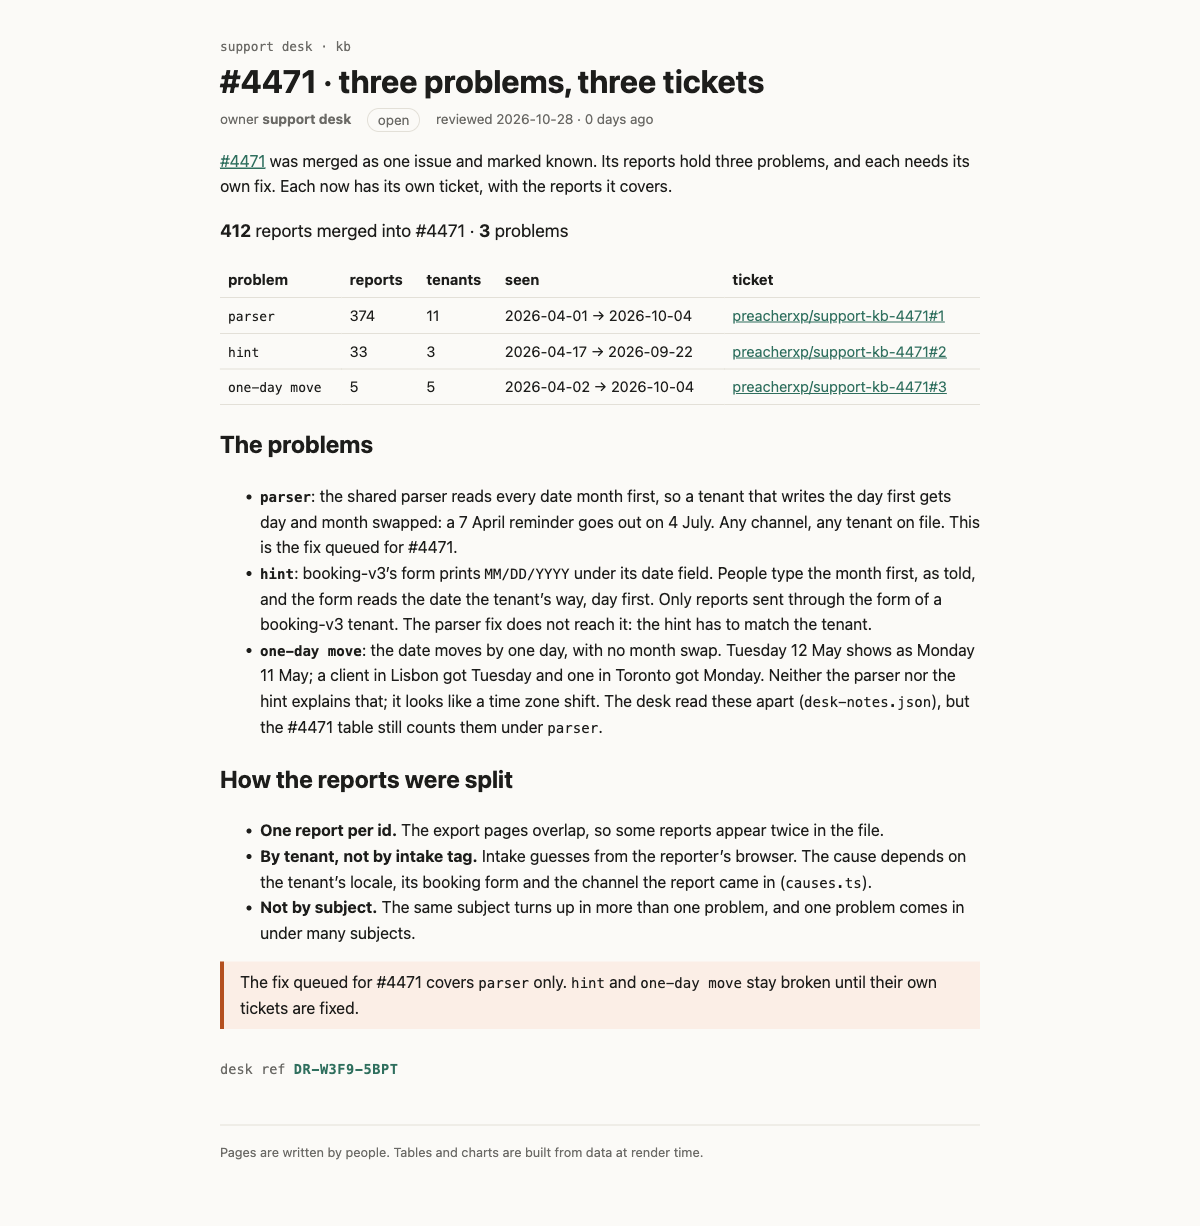
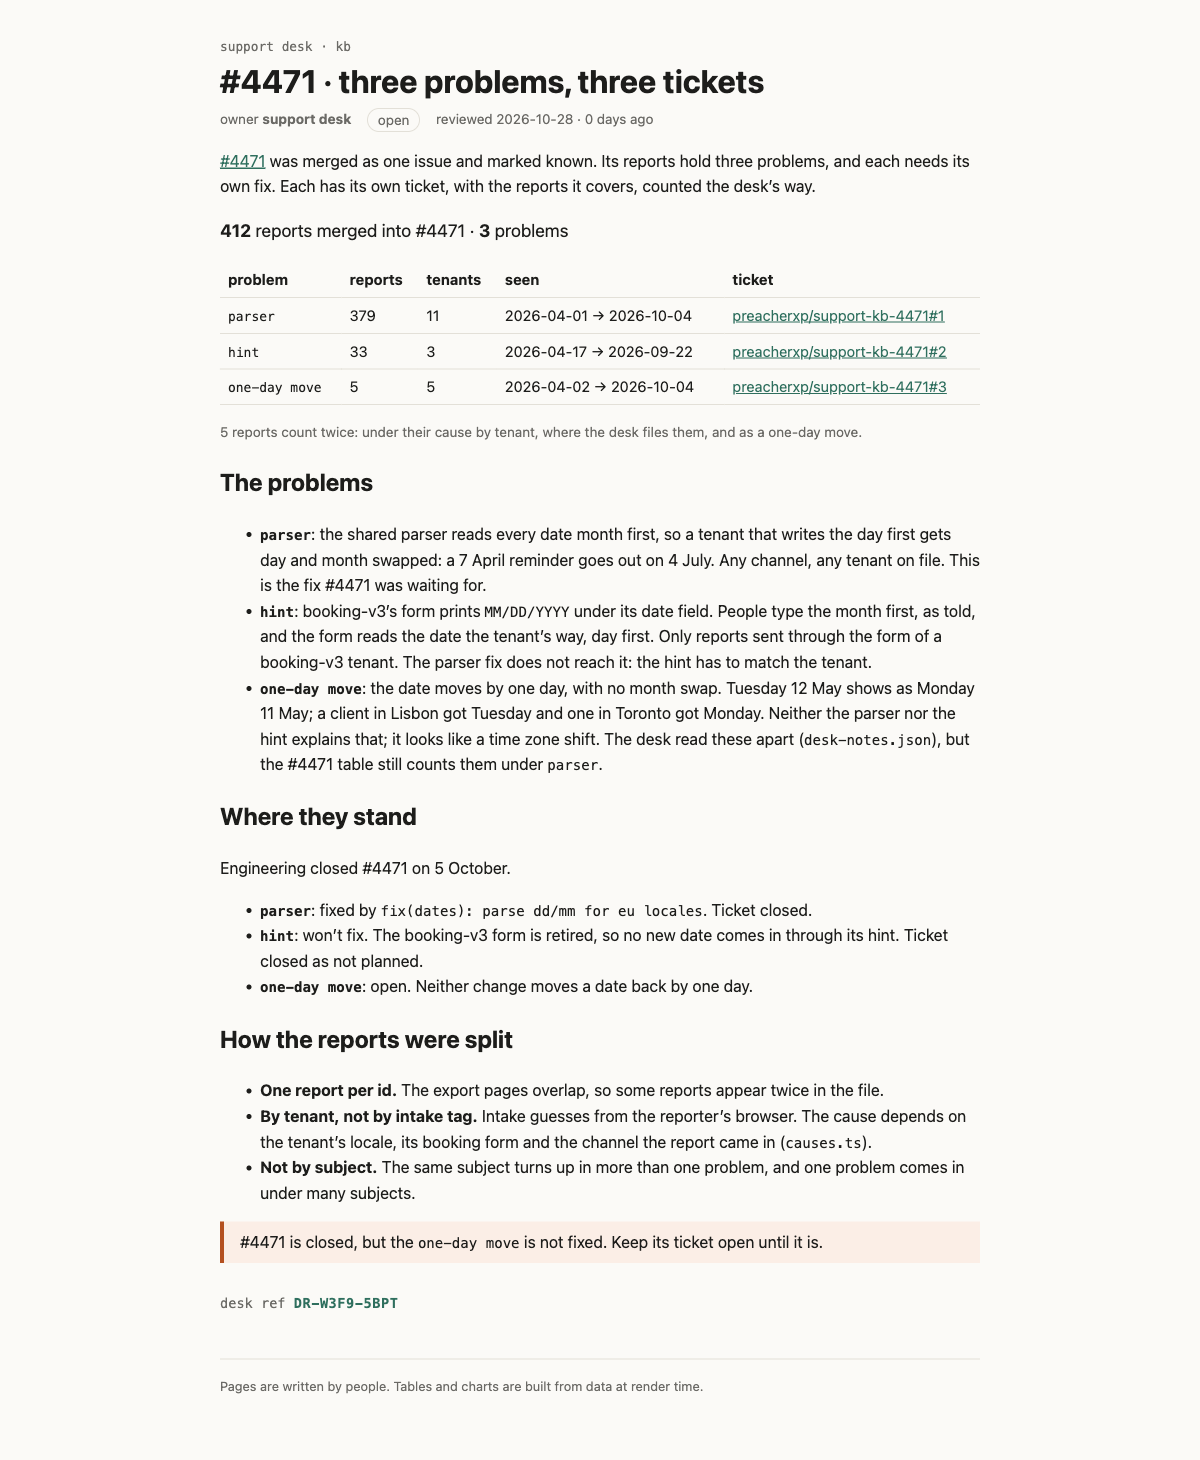
kb: #4471 problems page counts the desk's way, adds where each ticket stands

Changed region(s): [[0.185, 0.031, 0.8325, 0.8989], [0.185, 0.9299, 0.5858, 0.9608]]

diff --git a/rendered/problems.html b/rendered/problems.html
@@ -31,10 +31,11 @@
  .svelte-e2jw2j{}
[1 lines of base64/hex data omitted]
   .sum.svelte-1op6c6 { font-size: 1.1rem; }
+  .note.svelte-1op6c6 { color: var(--muted); font-size: 0.85em; }
   .open.svelte-1op6c6 td:where(.svelte-1op6c6) { background: var(--warn-bg); }
   .open.svelte-1op6c6 td:where(.svelte-1op6c6):last-child { color: var(--warn); font-weight: 600; }
  .svelte-1op6c6{}
[2 lines of base64/hex data omitted]
   aside.svelte-17bri61 { border-left: 4px solid var(--accent); padding: 0.5rem 1rem; margin: 1rem 0; background: var(--note-bg); }
   aside.warn.svelte-17bri61 { border-color: var(--warn); background: var(--warn-bg); }
  .svelte-17bri61{}
@@ -47,16 +48,18 @@
 </head>
 <body>
 <!--[--><div class="kb svelte-e2jw2j"><header class="svelte-e2jw2j"><a class="crumb svelte-e2jw2j" href="/kb">support desk · kb</a> <h1 class="svelte-e2jw2j">#4471 · three problems, three tickets</h1> <p class="meta svelte-e2jw2j"><span class="svelte-e2jw2j">owner <b class="svelte-e2jw2j">support desk</b></span> <span class="status open svelte-e2jw2j">open</span> <span class="svelte-e2jw2j">reviewed 2026-10-28 · 0 days ago</span></p></header> <!--[-1--><!--]--> <main class="svelte-e2jw2j"><p><a href="/kb/incidents/4471">#4471</a> was merged as one issue and marked known. Its reports hold three
-problems, and each needs its own fix. Each now has its own ticket, with the reports it covers.</p> <p class="sum svelte-1op6c6"><strong class="svelte-1op6c6">412</strong> reports merged into #4471 · <strong class="svelte-1op6c6">3</strong> problems</p> <table class="svelte-1op6c6"><thead class="svelte-1op6c6"><tr class="svelte-1op6c6"><th class="svelte-1op6c6">problem</th><th class="svelte-1op6c6">reports</th><th class="svelte-1op6c6">tenants</th><th class="svelte-1op6c6">seen</th><th class="svelte-1op6c6">ticket</th></tr></thead><tbody class="svelte-1op6c6"><!--[--><tr class="svelte-1op6c6"><td class="svelte-1op6c6"><code class="svelte-1op6c6">parser</code></td><td class="svelte-1op6c6">374</td><td class="svelte-1op6c6">11</td><td class="svelte-1op6c6">2026-04-01 → 2026-10-04</td><td class="svelte-1op6c6"><!--[0--><a href="https://github.com/preacherxp/support-kb-4471/issues/1" class="svelte-1op6c6">preacherxp/support-kb-4471#1</a><!--]--></td></tr><tr class="svelte-1op6c6"><td class="svelte-1op6c6"><code class="svelte-1op6c6">hint</code></td><td class="svelte-1op6c6">33</td><td class="svelte-1op6c6">3</td><td class="svelte-1op6c6">2026-04-17 → 2026-09-22</td><td class="svelte-1op6c6"><!--[0--><a href="https://github.com/preacherxp/support-kb-4471/issues/2" class="svelte-1op6c6">preacherxp/support-kb-4471#2</a><!--]--></td></tr><tr class="svelte-1op6c6"><td class="svelte-1op6c6"><code class="svelte-1op6c6">one-day move</code></td><td class="svelte-1op6c6">5</td><td class="svelte-1op6c6">5</td><td class="svelte-1op6c6">2026-04-02 → 2026-10-04</td><td class="svelte-1op6c6"><!--[0--><a href="https://github.com/preacherxp/support-kb-4471/issues/3" class="svelte-1op6c6">preacherxp/support-kb-4471#3</a><!--]--></td></tr><!--]--></tbody></table><!----> <h2>The problems</h2> <ul><li><strong><code>parser</code></strong>: the shared parser reads every date month first, so a tenant that writes the day
+problems, and each needs its own fix. Each has its own ticket, with the reports it covers, counted
+the desk’s way.</p> <p class="sum svelte-1op6c6"><strong class="svelte-1op6c6">412</strong> reports merged into #4471 · <strong class="svelte-1op6c6">3</strong> problems</p> <table class="svelte-1op6c6"><thead class="svelte-1op6c6"><tr class="svelte-1op6c6"><th class="svelte-1op6c6">problem</th><th class="svelte-1op6c6">reports</th><th class="svelte-1op6c6">tenants</th><th class="svelte-1op6c6">seen</th><th class="svelte-1op6c6">ticket</th></tr></thead><tbody class="svelte-1op6c6"><!--[--><tr class="svelte-1op6c6"><td class="svelte-1op6c6"><code class="svelte-1op6c6">parser</code></td><td class="svelte-1op6c6">379</td><td class="svelte-1op6c6">11</td><td class="svelte-1op6c6">2026-04-01 → 2026-10-04</td><td class="svelte-1op6c6"><!--[0--><a href="https://github.com/preacherxp/support-kb-4471/issues/1" class="svelte-1op6c6">preacherxp/support-kb-4471#1</a><!--]--></td></tr><tr class="svelte-1op6c6"><td class="svelte-1op6c6"><code class="svelte-1op6c6">hint</code></td><td class="svelte-1op6c6">33</td><td class="svelte-1op6c6">3</td><td class="svelte-1op6c6">2026-04-17 → 2026-09-22</td><td class="svelte-1op6c6"><!--[0--><a href="https://github.com/preacherxp/support-kb-4471/issues/2" class="svelte-1op6c6">preacherxp/support-kb-4471#2</a><!--]--></td></tr><tr class="svelte-1op6c6"><td class="svelte-1op6c6"><code class="svelte-1op6c6">one-day move</code></td><td class="svelte-1op6c6">5</td><td class="svelte-1op6c6">5</td><td class="svelte-1op6c6">2026-04-02 → 2026-10-04</td><td class="svelte-1op6c6"><!--[0--><a href="https://github.com/preacherxp/support-kb-4471/issues/3" class="svelte-1op6c6">preacherxp/support-kb-4471#3</a><!--]--></td></tr><!--]--></tbody></table> <!--[0--><p class="note svelte-1op6c6">5 reports count twice: under their cause by tenant, where the desk files them, and as a one-day move.</p><!--]--><!----> <h2>The problems</h2> <ul><li><strong><code>parser</code></strong>: the shared parser reads every date month first, so a tenant that writes the day
 first gets day and month swapped: a 7 April reminder goes out on 4 July. Any channel, any
-tenant on file. This is the fix queued for #4471.</li> <li><strong><code>hint</code></strong>: booking-v3’s form prints <code>MM/DD/YYYY</code> under its date field. People type the month
+tenant on file. This is the fix #4471 was waiting for.</li> <li><strong><code>hint</code></strong>: booking-v3’s form prints <code>MM/DD/YYYY</code> under its date field. People type the month
 first, as told, and the form reads the date the tenant’s way, day first. Only reports sent
 through the form of a booking-v3 tenant. The parser fix does not reach it: the hint has to match
 the tenant.</li> <li><strong><code>one-day move</code></strong>: the date moves by one day, with no month swap. Tuesday 12 May shows as
 Monday 11 May; a client in Lisbon got Tuesday and one in Toronto got Monday. Neither the parser
 nor the hint explains that; it looks like a time zone shift. The desk read these apart
-(<code>desk-notes.json</code>), but the #4471 table still counts them under <code>parser</code>.</li></ul> <h2>How the reports were split</h2> <ul><li><strong>One report per id.</strong> The export pages overlap, so some reports appear twice in the file.</li> <li><strong>By tenant, not by intake tag.</strong> Intake guesses from the reporter’s browser. The cause depends
+(<code>desk-notes.json</code>), but the #4471 table still counts them under <code>parser</code>.</li></ul> <h2>Where they stand</h2> <p>Engineering closed #4471 on 5 October.</p> <ul><li><strong><code>parser</code></strong>: fixed by <code>fix(dates): parse dd/mm for eu locales</code>. Ticket closed.</li> <li><strong><code>hint</code></strong>: won’t fix. The booking-v3 form is retired, so no new date comes in through its hint.
+Ticket closed as not planned.</li> <li><strong><code>one-day move</code></strong>: open. Neither change moves a date back by one day.</li></ul> <h2>How the reports were split</h2> <ul><li><strong>One report per id.</strong> The export pages overlap, so some reports appear twice in the file.</li> <li><strong>By tenant, not by intake tag.</strong> Intake guesses from the reporter’s browser. The cause depends
 on the tenant’s locale, its booking form and the channel the report came in (<code>causes.ts</code>).</li> <li><strong>Not by subject.</strong> The same subject turns up in more than one problem, and one problem comes in
-under many subjects.</li></ul> <aside class="warn svelte-17bri61"><!---->The fix queued for #4471 covers <code>parser</code> only. <code>hint</code> and <code>one-day move</code> stay broken until their own tickets are fixed.<!----></aside><!----> <!--[0--><p class="stamp svelte-1280m42">desk ref <b class="svelte-1280m42">DR-W3F9-5BPT</b></p><!--]--><!----><!----></main> <footer class="svelte-e2jw2j">Pages are written by people. Tables and charts are built from data at render time.</footer></div><!----><!--]-->
+under many subjects.</li></ul> <aside class="warn svelte-17bri61"><!---->#4471 is closed, but the <code>one-day move</code> is not fixed. Keep its ticket open until it is.<!----></aside><!----> <!--[0--><p class="stamp svelte-1280m42">desk ref <b class="svelte-1280m42">DR-W3F9-5BPT</b></p><!--]--><!----><!----></main> <footer class="svelte-e2jw2j">Pages are written by people. Tables and charts are built from data at render time.</footer></div><!----><!--]-->
 </body>
 </html>

diff --git a/src/lib/kb/ProblemTable.svelte b/src/lib/kb/ProblemTable.svelte
@@ -4,17 +4,20 @@
   import { causeOf, uniqueById, type Report } from '#lib/kb/causes';
   import { tenantOf } from '#lib/kb/locales';
 
-  // One row per problem in a merged ticket. A report's problem is its cause by tenant (causes.ts),
-  // except the ones the desk read as a one-day move (desk-notes.json): no month/day flip explains those.
+  // One row per problem in a merged ticket, counted the desk's way (CauseTable): every report under its
+  // cause by tenant (causes.ts). The ones the desk read as a one-day move (desk-notes.json) stay counted
+  // there and also make their own row: no month/day flip explains them.
   let { ticket, filed = {} }: { ticket: number; filed?: Record<string, string> } = $props();
 
-  const problemOf = (r: Report) =>
-    notes.oneDayMove.includes(r.id) ? 'one-day move' : (causeOf(r, tenantOf(r)) ?? 'unplaced');
+  const problemsOf = (r: Report) => [
+    causeOf(r, tenantOf(r)) ?? 'unplaced',
+    ...(notes.oneDayMove.includes(r.id) ? ['one-day move'] : []),
+  ];
 
   const merged = $derived(uniqueById(reports as Report[]).filter((r) => r.mergedInto === ticket));
   const rows = $derived.by(() => {
     const by = new Map<string, Report[]>();
-    for (const r of merged) by.set(problemOf(r), [...(by.get(problemOf(r)) ?? []), r]);
+    for (const r of merged) for (const p of problemsOf(r)) by.set(p, [...(by.get(p) ?? []), r]);
     return [...by]
       .map(([problem, rs]) => {
         const days = rs.map((r) => r.receivedAt.slice(0, 10)).sort();
@@ -22,6 +25,7 @@
       })
       .sort((a, b) => b.count - a.count);
   });
+  const twice = $derived(merged.filter((r) => problemsOf(r).length > 1).length);
 </script>
 
 <p class="sum">
@@ -47,8 +51,13 @@
   </tbody>
 </table>
 
+{#if twice}
+  <p class="note">{twice} reports count twice: under their cause by tenant, where the desk files them, and as a one-day move.</p>
+{/if}
+
 <style>
   .sum { font-size: 1.1rem; }
+  .note { color: var(--muted); font-size: 0.85em; }
   .open td { background: var(--warn-bg); }
   .open td:last-child { color: var(--warn); font-weight: 600; }
 </style>
